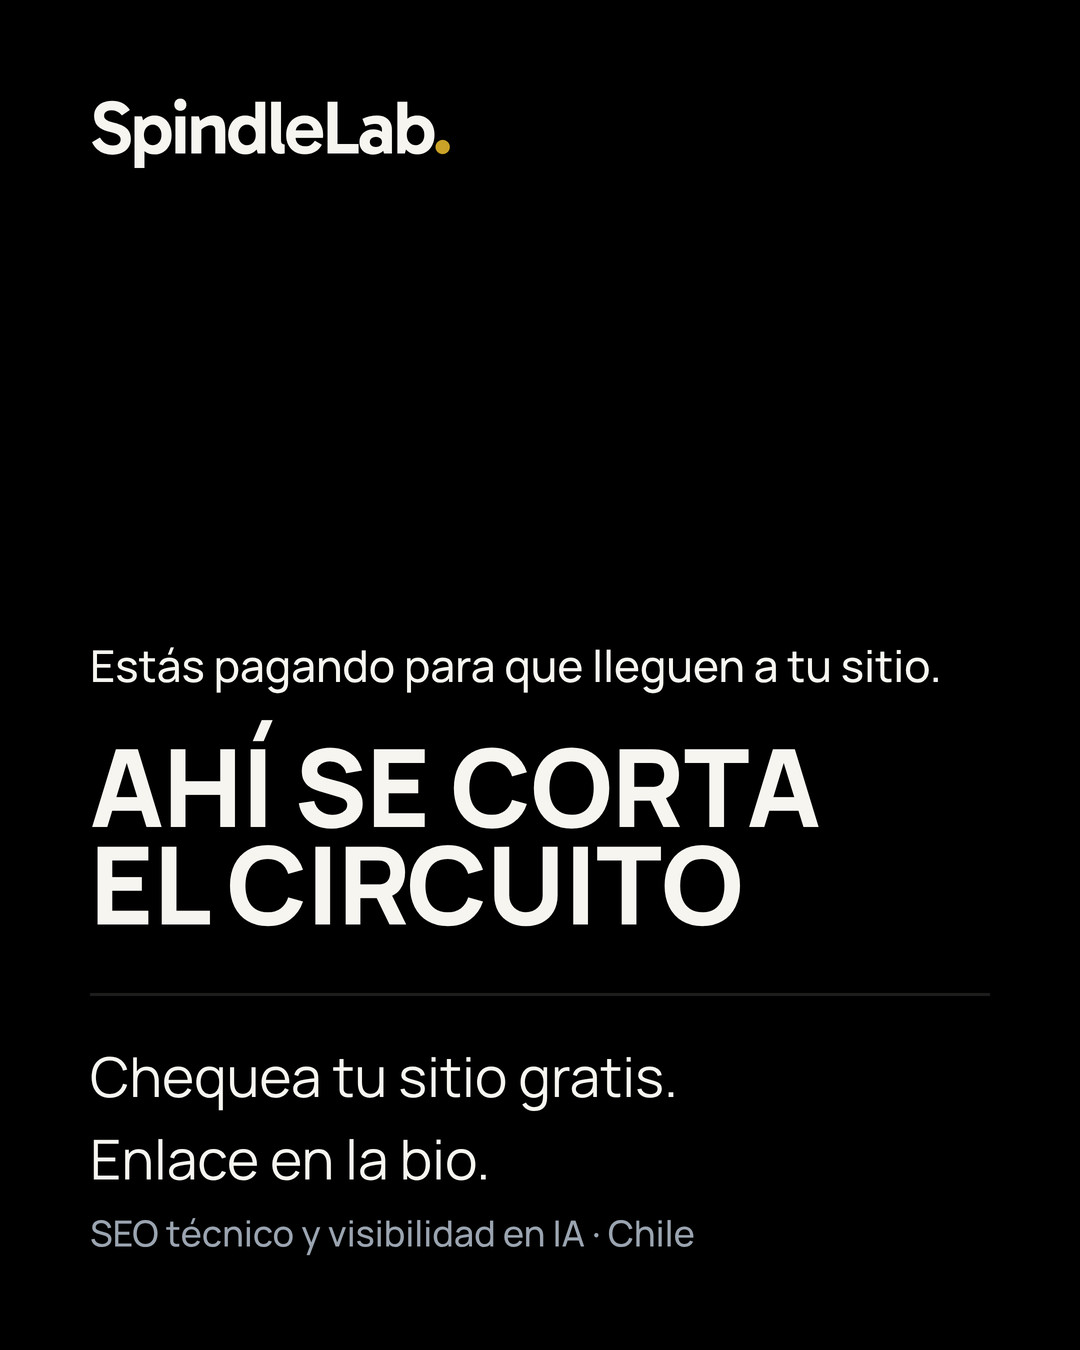
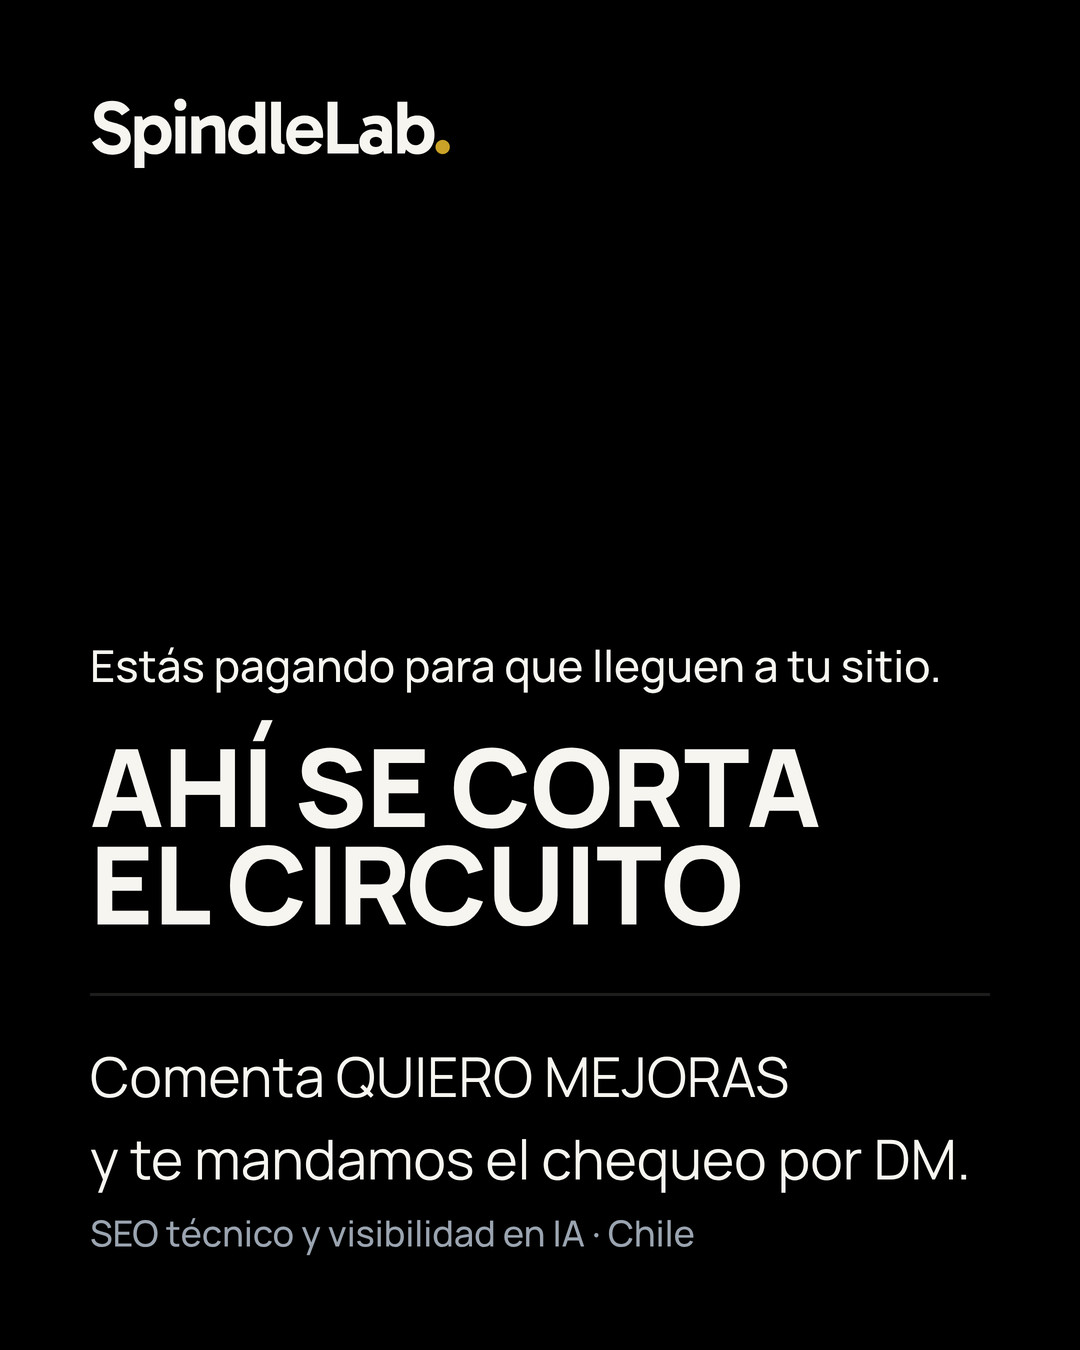
la keyword del gancho de Instagram pasa de CIRCUITO a QUIERO MEJORAS (Ramon, 7-oct)
Resuelve la primera de las tres reglas del 1-sep que bloqueaban publicar: el gancho de
comentarios se queda, lo que cambia es la palabra. Tiene sentido mas alla de la preferencia,
porque CIRCUITO era del concepto del domino del sistema visual v2 y el v3 reemplazo ese sistema
entero, asi que la keyword habia quedado huerfana de su campana.

El llamado del kit es ahora Comenta QUIERO MEJORAS y te mandamos el chequeo por DM, en el cierre
del carrusel, post-titular y la story, con sus alt al dia y las tres piezas rendidas de nuevo y
miradas. El manual 10.8 queda reescrito con el porque del gancho y con la regla de un solo
llamado por pieza: la bio deja de ser el llamado de la lamina y pasa al pie de foto.

Queda pendiente de Ramon y es lo que de verdad lo habilita: cambiar la keyword en ManyChat, que
hoy escucha CIRCUITO. Publicar pidiendo QUIERO MEJORAS con ManyChat sin tocar deja sin respuesta
a quien comente. Y conviene configurarla como contiene, no exacta: son dos palabras.

Claude-Session: https://claude.ai/code/session_01CR5SfVdVRLCtMzHMRctqPx

Changed region(s): [[0.0611, 0.7778, 0.8861, 0.9022]]

diff --git a/marketing/brand/instagram-v3/post-titular.html b/marketing/brand/instagram-v3/post-titular.html
@@ -1,5 +1,5 @@
 <!doctype html><html lang="es"><head><meta charset="utf-8"><link rel="stylesheet" href="base.css">
-<meta name="alt-instagram" content="Lámina negra con el wordmark SpindleLab. Estás pagando para que lleguen a tu sitio. AHÍ SE CORTA EL CIRCUITO. Chequea tu sitio gratis. Enlace en la bio.">
+<meta name="alt-instagram" content="Lámina negra con el wordmark SpindleLab. Estás pagando para que lleguen a tu sitio. AHÍ SE CORTA EL CIRCUITO. Comenta QUIERO MEJORAS y te mandamos el chequeo por DM.">
 <!-- POST-TITULAR · 1080×1350 · lienzo negro, wordmark arriba, ojillo + display apoyados abajo, como el
      hero del sitio. Textos: ojillo y h1 del hero de la home v3, tal cual. Editar solo lo marcado.
      OJO (manual §10.11): una pieza solo tipográfica choca con la regla del 1-sep de Ramón
@@ -14,7 +14,7 @@
   <p class="ojillo">Estás pagando para que lleguen a tu sitio.</p>          <!-- EDITAR -->
   <h1 class="display">Ahí se corta<br>el circuito</h1>                    <!-- EDITAR: ≤ 6 palabras, ≤ 34 caracteres; el renglón más largo ≤ 900 px -->
   <div class="filete" style="margin-top:61px">
-    <p class="llamado" style="margin-top:0">Chequea tu sitio gratis.<br>Enlace en la bio.</p>
+    <p class="llamado" style="margin-top:0">Comenta QUIERO MEJORAS<br>y te mandamos el chequeo por DM.</p>
     <p class="rot">SEO técnico y visibilidad en IA · Chile</p>
   </div>
 </div>

diff --git a/marketing/brand/instagram-v3/carrusel-5-cierre.html b/marketing/brand/instagram-v3/carrusel-5-cierre.html
@@ -1,5 +1,5 @@
 <!doctype html><html lang="es"><head><meta charset="utf-8"><link rel="stylesheet" href="base.css"><link rel="stylesheet" href="carrusel.css">
-<meta name="alt-instagram" content="Lámina negra. Corre los 21 chequeos sobre tu propio sitio. No pide registro, y la metodología completa está publicada. Chequea tu sitio gratis, enlace en la bio. Wordmark de SpindleLab.">
+<meta name="alt-instagram" content="Lámina negra. Corre los 21 chequeos sobre tu propio sitio. No pide registro, y la metodología completa está publicada. Comenta QUIERO MEJORAS y te mandamos el chequeo por DM. Wordmark de SpindleLab.">
 <!-- CARRUSEL · 5 de 5 · CIERRE. El wordmark a todo el ancho, como el pie del sitio; aquí su
      punto SÍ va en oro, porque es el único oro de la lámina. El llamado es texto. -->
 <style>
@@ -11,6 +11,6 @@
 <div class="serie rot"><span>Los 21 chequeos de visibilidad en IA</span><span>5 de 5</span></div>
 <h2 class="h1">Corre los 21 chequeos sobre tu propio sitio.</h2>
 <p class="cuerpo">No pide registro, y la metodología completa está publicada.</p>
-<p class="llamado">Chequea tu sitio gratis. Enlace en la bio.</p>
+<p class="llamado">Comenta QUIERO MEJORAS y te mandamos el chequeo por DM.</p>
 <div class="wm gigante">SpindleLab<i>.</i></div>
 </body></html>

diff --git a/marketing/brand/instagram-v3/story-portada.html b/marketing/brand/instagram-v3/story-portada.html
@@ -1,5 +1,5 @@
 <!doctype html><html lang="es"><head><meta charset="utf-8"><link rel="stylesheet" href="base.css">
-<meta name="alt-instagram" content="Fichas de dominó cayendo en fila sobre fondo negro. Estás pagando para que lleguen a tu sitio. AHÍ SE CORTA EL CIRCUITO. Chequea tu sitio gratis.">
+<meta name="alt-instagram" content="Fichas de dominó cayendo en fila sobre fondo negro. Estás pagando para que lleguen a tu sitio. AHÍ SE CORTA EL CIRCUITO. Comenta QUIERO MEJORAS y te mandamos el chequeo.">
 <!-- STORY-PORTADA · 1080×1920 (sirve también de portada de reel).
      Zonas (ver story-portada-guia): todo lo que se lee va entre y = 270 e y = 1248, la banda segura
      del reel (Meta: 14 % arriba, 35 % abajo, 6 % por lado), que cae dentro de la de la story (250
@@ -22,7 +22,7 @@ body { padding: 0 90px; }
   <div class="titular">
     <p class="ojillo">Estás pagando para que lleguen a tu sitio.</p>
     <h1 class="display">Ahí se corta<br>el circuito</h1>
-    <p class="llamado">Chequea tu sitio gratis.</p>
+    <p class="llamado">Comenta QUIERO MEJORAS<br>y te mandamos el chequeo.</p>
   </div>
 </div>
 <!-- De y = 1290 a 1560: libre para el sticker de enlace (se pone en la app). -->

diff --git a/marketing/encargos-otras-sesiones/manual-v3-instagram-para-redes.md b/marketing/encargos-otras-sesiones/manual-v3-instagram-para-redes.md
@@ -195,11 +195,23 @@ tirar trabajo bueno. Los terminé.
 
 El manual no las reconcilia y el kit las contradice. **Decide Ramón; yo no las retiro por mi cuenta.**
 
-1. **El gancho «Comenta CIRCUITO».** `clientes/spindlelab.md:184-188` y `:201`: «Comenta CIRCUITO y
-   te mandamos el link por DM», con **ManyChat ya conectado** (keyword `CIRCUITO`, activo sobre el
-   post del dominó). El razonamiento sigue en pie: *en IG los links no son clicables y el DM es la
-   entrega real.* El kit llama a «Chequea tu sitio gratis. Enlace en la bio», que es un clic menos
-   directo. **O el llamado suma el gancho, o la regla del 1-sep se retira.**
+**Al 7-oct queda una resuelta (la 1) y dos pendientes (la 2 y la 3), más la de los viernes.**
+
+1. ✅ **RESUELTA POR RAMÓN el 7-oct: el gancho se queda, con keyword nueva.** `CIRCUITO` pasa a
+   **`QUIERO MEJORAS`**. Tiene sentido más allá de la preferencia: `CIRCUITO` era la palabra del
+   concepto del dominó del sistema v2, y el v3 reemplazó ese sistema entero, así que la keyword
+   había quedado huérfana de su campaña.
+   **Hecho en esta pasada:** el llamado del kit es ahora «Comenta QUIERO MEJORAS y te mandamos el
+   chequeo por DM», en `carrusel-5-cierre`, `post-titular` y `story-portada`, con sus alt
+   actualizados y las tres piezas rendidas de nuevo. El manual §10.8 quedó reescrito con el porqué
+   del gancho (en IG los enlaces del pie no son clicables, el DM es la entrega real) y con la regla
+   de **un solo llamado por pieza**: la bio deja de ser el llamado de la lámina y queda como
+   respaldo en el pie de foto. La ficha `clientes/spindlelab.md` registra el cambio sin borrar el
+   texto del 1-sep.
+   ⚠ **Lo que queda y es de Ramón: cambiar la keyword en ManyChat.** Hoy escucha `CIRCUITO`. Si se
+   publica una lámina que pide `QUIERO MEJORAS` con ManyChat sin tocar, **quien comente no recibe
+   nada**. Conviene además configurarla como «contiene» y no como coincidencia exacta: son dos
+   palabras, y «quiero mejoras!» o «Quiero mejoras.» tienen que entrar igual.
 2. **«Stories sueltas: NO por ahora»** (`:208-210`). Solo re-compartir el feed, hasta tener base de
    seguidores. **El kit trae `story-portada` diseñada.** O la plantilla espera, o la regla cambia.
 3. **«Las fichas tipográficas planas SOLAS ya no pasan»** (`:211-214`): toda pieza nueva bajo el

diff --git a/marketing/brand/manual-de-marca.md b/marketing/brand/manual-de-marca.md
@@ -610,14 +610,26 @@ máximo tres pasos escalonados, nada letra por letra.
 Instagram no tiene botones, así que **nada imita un botón**: ni cajas con texto de acción, ni
 píldoras, ni flechas en cápsula. El llamado es **texto**:
 
-> **Chequea tu sitio gratis. Enlace en la bio**
+> **Comenta QUIERO MEJORAS y te mandamos el chequeo por DM**
 
-En el cierre, en guía (55 px, 400, papel). En el texto de la publicación los enlaces no
-funcionan: el enlace vive en la **bio** y, en stories, en el **sticker de enlace**.
+En el cierre, en guía (55 px, 400, papel). **Un solo llamado por pieza.**
 
-**Este llamado funciona solo si la bio apunta al chequeo** (`spindlelab.cl/diagnostico/`). Si
-la bio pasa a `verifica.spindlelab.cl`, como pidió la campaña de Verifica, el llamado manda al
-lugar equivocado: lo decide Ramón antes de la primera publicación.
+**Por qué el gancho de comentarios y no «enlace en la bio»** (Ramón, 1-sep, keyword actualizada
+el 7-oct): en Instagram los enlaces del pie de foto no son clicables, así que el DM es la entrega
+real, no una fricción inventada. La bio sigue siendo el único enlace que se puede tocar, y queda
+como respaldo **en el pie de foto**, nunca como segundo llamado dentro de la lámina. En stories,
+el enlace va en el **sticker**.
+
+**La keyword es `QUIERO MEJORAS`** (reemplaza a `CIRCUITO`, que era del concepto del dominó del
+sistema v2). Va en mayúsculas dentro de la línea, porque así se escribe igual en el comentario;
+no es un display ni un rótulo espaciado, así que no choca con §10.4.
+
+> ⚠ **La keyword vive en ManyChat, no en la pieza.** Publicar una lámina que pide
+> `QUIERO MEJORAS` mientras ManyChat sigue escuchando `CIRCUITO` deja a quien comenta sin
+> respuesta. **Antes de la primera publicación hay que cambiarla en ManyChat** (Automation →
+> keyword) y agregar ahí el post nuevo al trigger. Lo hace Ramón; esta sesión no toca ManyChat.
+> Conviene configurarla como «contiene» y no como coincidencia exacta: son dos palabras, y
+> «quiero mejoras!» o «Quiero mejoras.» tienen que entrar igual.
 
 **Precio.** Como máximo **una línea de precio por publicación**, en el campo de su pilar y en
 el formato del sitio: `Desde ▏ $X + IVA`, con la cifra exacta de `oferta-v3.json` (umbral de

diff --git a/marketing/oficina/clientes/spindlelab.md b/marketing/oficina/clientes/spindlelab.md
@@ -182,7 +182,12 @@ cierre de mes.
 ## Estado operacional — Interacción y tráfico (decisión de Ramón, 1-sep-2026)
 
 - **Objetivo del mes: tráfico al chequeo.** Las piezas invitan a interactuar, no solo a mirar.
-- **Instagram: gancho de comentarios** ("Comenta CIRCUITO y te mandamos el link por DM").
+- **Instagram: gancho de comentarios.** ⚠ **La keyword cambió el 7-oct (Ramón): `CIRCUITO` →
+  `QUIERO MEJORAS`.** El llamado vigente es «Comenta QUIERO MEJORAS y te mandamos el chequeo por
+  DM». El gancho en sí sigue en pie; lo que cambió es la palabra. `CIRCUITO` era del concepto del
+  dominó del sistema visual v2, que el v3 reemplazó. **Hay que cambiarla en ManyChat antes de la
+  primera publicación**, o quien comente no recibe nada. Texto original del 1-sep, como registro:
+  ("Comenta CIRCUITO y te mandamos el link por DM").
   Herramienta: **ManyChat** (partner oficial de Meta; keyword del mes: CIRCUITO). Mientras
   Ramón no conecte la cuenta, los DM se responden a mano con la plantilla del publicar.md
   del día. En IG esto no es fricción artificial: los links no son clicables y el DM es la
@@ -197,7 +202,11 @@ cierre de mes.
 ### Actualizaciones del 1-sep (Ramón, tarde)
 - **Handle de Instagram cambiado: `@spindlelab.cl`** (antes @spindle.lab) — mejor recordación,
   calca el dominio. Bio apuntando a `spindlelab.cl/diagnostico` ✅.
-- **ManyChat CONECTADO** ✅: keyword `CIRCUITO`, activo sobre el post del dominó (1-sep). Para
+- **ManyChat CONECTADO** ✅: keyword `CIRCUITO`, activo sobre el post del dominó (1-sep).
+  ⚠ **Pendiente de Ramón desde el 7-oct: cambiar la keyword a `QUIERO MEJORAS`** y configurarla
+  como «contiene», no como coincidencia exacta (son dos palabras: «quiero mejoras!» tiene que
+  entrar igual). Mientras no se cambie, las piezas nuevas del kit de Instagram piden una palabra
+  que ManyChat no escucha. Para
   cada post nuevo con gancho: Automation → agregar el post al trigger existente (un clic).
   Regla intacta: solo Instagram; en LinkedIn los DM van a mano.
 - **Metricool ADOPTADO para programar** (revierte la decisión del 28-ago de publicación 100%

diff --git a/marketing/brand/instagram-v3/README.md b/marketing/brand/instagram-v3/README.md
@@ -43,7 +43,7 @@ En el resto de las piezas, los textos vienen del sitio tal cual: el hero de la h
 - **Forma.**
   - Un solo radio, 6 px del sitio. La etiqueta de pieza usa 4 px.
   - Cero píldoras.
-  - Nada imita un botón: el llamado es texto («Chequea tu sitio gratis. Enlace en la bio.»).
+  - Nada imita un botón: el llamado es texto («Comenta QUIERO MEJORAS y te mandamos el chequeo por DM.»), uno solo por pieza.
 - **Imagen.**
   - Solo el pool del sitio y los mockups de obra.
   - La etiqueta va arriba a la izquierda, como en el sitio. En capturas planas va abajo.
@@ -163,5 +163,6 @@ Una observación para Ramón: con la regla de wordmark en cada portada, el wordm
 > Las dos primeras **ya no están abiertas**: el manual v3.0 las resolvió. El punto va en el color del texto del campo sobre brasa y petróleo (§10.5), y el precio es una línea por pieza con la cifra de `oferta-v3.json` (§10.8). La cita al manual v2.0 quedaba vieja.
 
 1. **El formato 3:4 (1080×1440).** Instagram lo acepta desde may-2025 y no pierde nada en la grilla. El kit queda en 4:5 por la decisión fijada; pasar a 3:4 es cambiar el alto en `base.css` (`body.f45`).
-4. **El enlace del bio.** El llamado «Chequea tu sitio gratis. Enlace en la bio.» solo funciona si el bio sigue apuntando a `spindlelab.cl/diagnostico/`, y no a `verifica.spindlelab.cl`.
+4. **El enlace del bio.** Ya no es el llamado de la lámina (desde el 7-oct va el gancho de comentarios), pero sigue siendo el único enlace clicable del perfil y se nombra en el pie de foto. Decide Ramón si apunta a `spindlelab.cl/diagnostico/` o a `verifica.spindlelab.cl`.
+5. **La keyword en ManyChat.** La pieza pide `QUIERO MEJORAS` y ManyChat todavía escucha `CIRCUITO`. **Hay que cambiarla antes de publicar**, o quien comente no recibe nada.
 5. **El radio convertido** (16,6 px en la lámina para que se vea de 6 px). Si se prefiere el literal de 6 px, se cambia `--k` a 1 en `base.css`.
